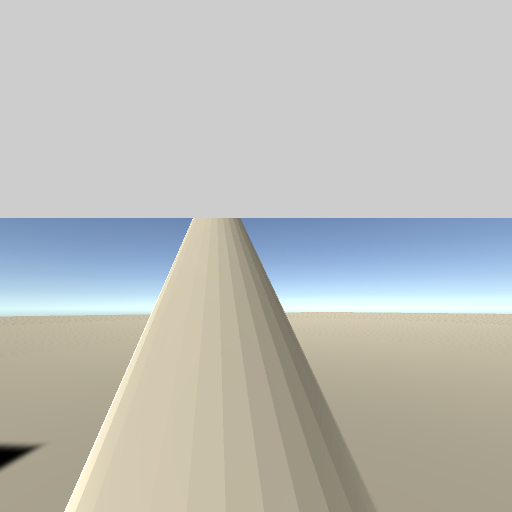
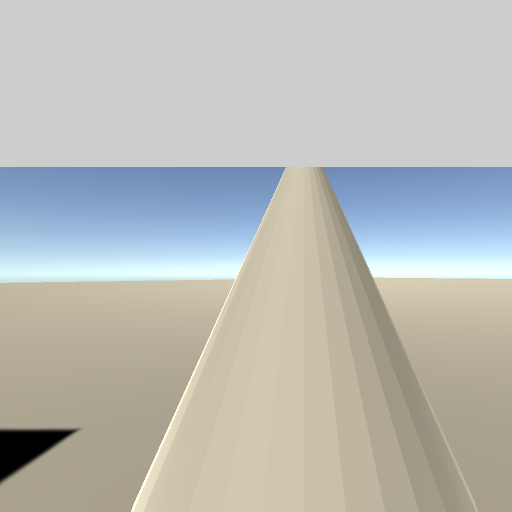
Aiming Stuff

diff --git a/IndividualPrototype/Assets/Scripts/CameraShoot.cs b/IndividualPrototype/Assets/Scripts/CameraShoot.cs
@@ -5,19 +5,48 @@ using UnityEngine;
 
 public class CameraShoot : MonoBehaviour
 {
-    [SerializeField]Camera heldCamera;
-    public RenderTexture tex;
+    [SerializeField] Camera heldCamera;
+    [SerializeField] GameObject cameraObject;
+
+    [SerializeField] Transform aimingPos, notAimingPos;
+    bool Aiming;
+    //public RenderTexture tex;
+    [SerializeField] float shootWait =2f;
+    float shootTimer;
     Ray camerashootRay;
 
     private void Start()
     {
         Directory.CreateDirectory(Application.dataPath + "/ScreenShots");
+        shootTimer = shootWait;
     }
     private void Update()
     {
-        if (Input.GetButtonDown("Fire1"))
+        if(Input.GetAxis("RightTrigger")<0)
         {
-            Shoot();
+            Aiming = true;
+            if (Input.GetButtonDown("Fire1"))
+            {
+                Shoot();
+            }
+        }
+        else
+        {
+            Aiming = false;
+        }
+
+        MoveCameraToPosition(Aiming);
+    }
+
+    void MoveCameraToPosition(bool isAiming)
+    {
+        if(isAiming)
+        {
+            cameraObject.transform.position = Vector3.Lerp(cameraObject.transform.position, aimingPos.position, 5f * Time.deltaTime);
+        }
+        else
+        {
+            cameraObject.transform.position = Vector3.Lerp(cameraObject.transform.position, notAimingPos.position, 5f * Time.deltaTime);
         }
     }
 
@@ -29,11 +58,13 @@ public class CameraShoot : MonoBehaviour
         {
             if (rh.collider.gameObject.tag == "Enemy")
             {
-                SaveTexturePNG(toTexture2D(heldCamera.targetTexture));
+                //SaveTexturePNG(toTexture2D(heldCamera.targetTexture));
                 Debug.Log(Application.dataPath);
             }
         }
     }
+
+    //Sources for saving rendertexture data to a png file
     //https://stackoverflow.com/questions/44264468/convert-rendertexture-to-texture2d 
     //https://answers.unity.com/questions/862685/saving-screenshot-and-using-it-as-texture-at-runti.html
     string NameForScreenshot(int i)
